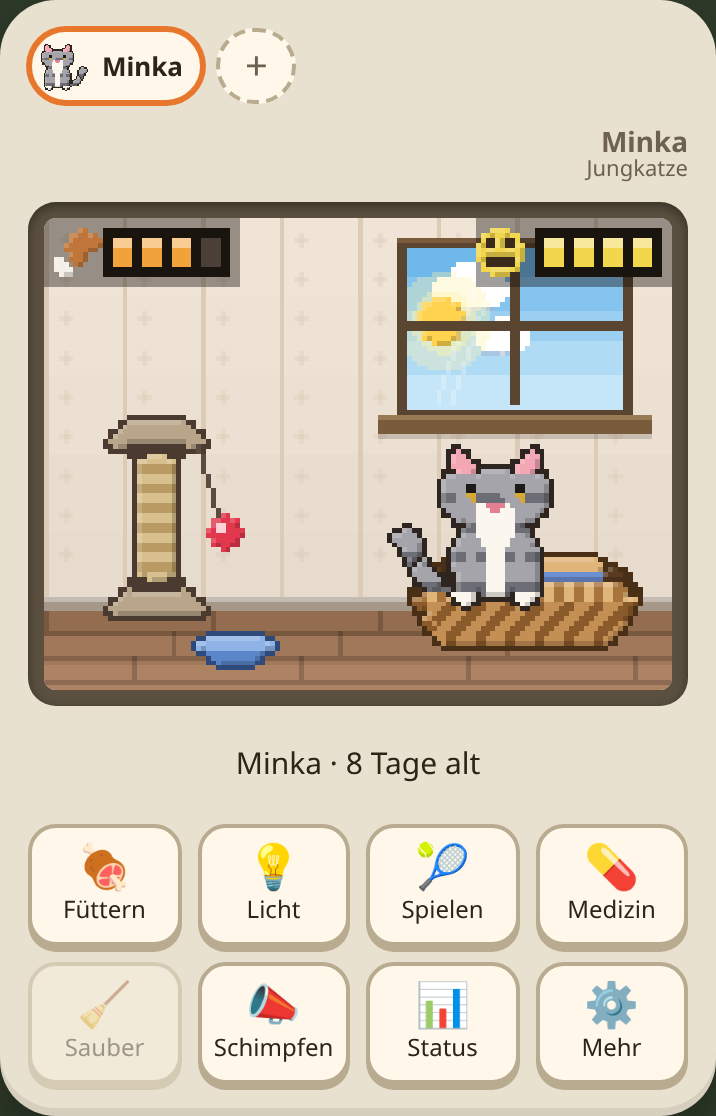
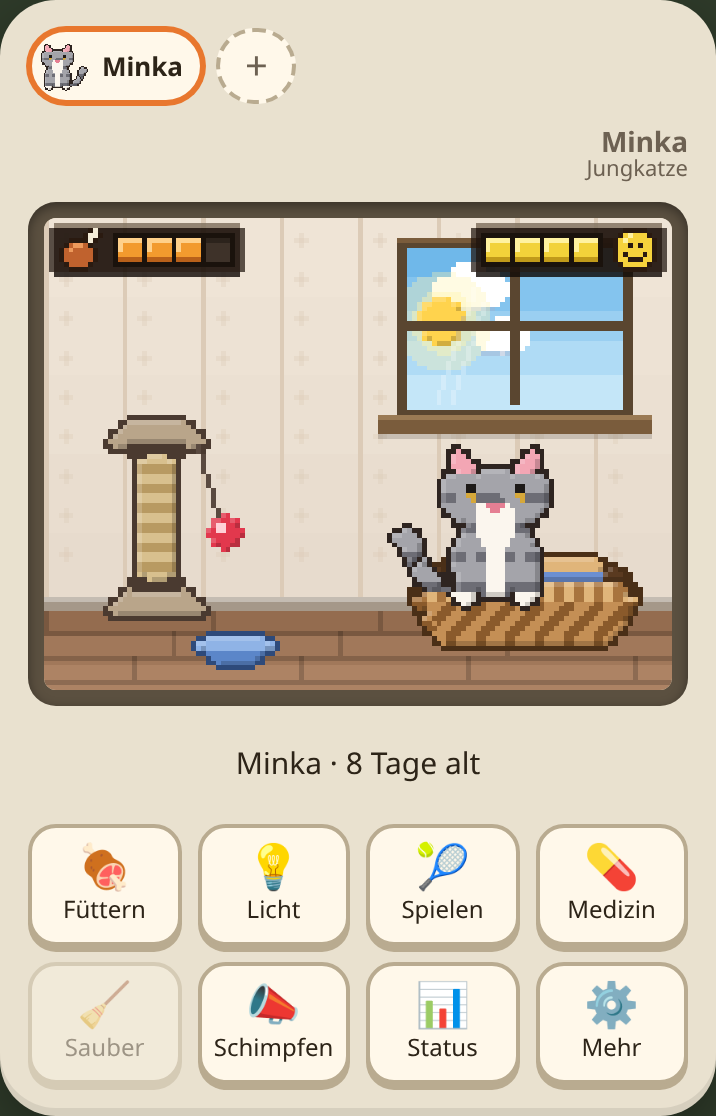
Schöneres HUD (Rahmen, Fleisch-Symbol, Stimmungs-Smiley, glänzende Segmente), kleinerer Fuchsbau-Eingang

Changed region(s): [[0.6453, 0.1828, 0.9525, 0.2742], [0.0615, 0.1828, 0.3687, 0.2742]]

diff --git a/src/render/scene.ts b/src/render/scene.ts
@@ -2,7 +2,7 @@ import { MIN, RULES } from '../engine/config';
 import { activePet, hearts, type GameState, type Pet } from '../engine/state';
 import { species } from '../species';
 import type { SpeciesDef } from '../species/types';
-import { ColorMap, ICONS, RES, drawMap, eggColors, eggMap, hiResCanvas, petSprite } from './pixels';
+import { ColorMap, ICONS, RES, drawMap, drawPixels, eggColors, eggMap, hiResCanvas, petSprite } from './pixels';
 import { Critters } from './critters';
 import { bands, cloud, glow, shadeHex } from './fx';
 import { PLATE_COLORS, SceneKind, drawNestBack, drawNestFront, drawOutdoor, skyState } from './outdoor';
@@ -105,10 +105,86 @@ const LEAVES: [number, number, number, number][] = [
   [42, 45, 0, 1], [49, 43, 1, 0], [56, 46, 2, 1], [61, 42, 3, 2], [24, 43, 4, 0], [37, 46, 1, 2], [16, 46, 3, 2],
 ];
 
-// HUD-Symbole
-const HUD_ICON_COLORS: ColorMap = { b: '#c0763a', w: '#f4f0e8', y: '#f2d64b', o: '#3a2a1a' };
-const HUD_FOOD = ['..bb.', '.bbbb', '.bbb.', 'w.b..', 'ww...'];
-const HUD_SMILE = ['.yyy.', 'yoyoy', 'yyyyy', 'yoooy', '.yyy.'];
+// HUD-Symbole in voller Rasterauflösung (1 Zeichen = 1 Bildpixel)
+const HUD_COLORS: ColorMap = {
+  o: '#2a1a10',
+  b: '#c0622e',
+  h: '#ee9a5c',
+  w: '#f4ecd8',
+  y: '#f6d23c',
+  l: '#fff2a0',
+  k: '#2a1a10',
+  s: '#f0f0f0',
+  r: '#e2384d',
+};
+const HUD_MEAT = [
+  '......ow.',
+  '.....owwo',
+  '..oooowo.',
+  '.obhhbo..',
+  'obhbbbbo.',
+  'obbbbbbo.',
+  'obbbbbbo.',
+  '.obbbbo..',
+  '..oooo...',
+];
+const HUD_HAPPY = [
+  '..ooooo..',
+  '.oylyyyo.',
+  'oylyyyyyo',
+  'oyyoyoyyo',
+  'oyyyyyyyo',
+  'oykyyykyo',
+  'oyykkkyyo',
+  '.oyyyyyo.',
+  '..ooooo..',
+];
+const HUD_OK = [
+  '..ooooo..',
+  '.oylyyyo.',
+  'oylyyyyyo',
+  'oyyoyoyyo',
+  'oyyyyyyyo',
+  'oyyyyyyyo',
+  'oyykkkyyo',
+  '.oyyyyyo.',
+  '..ooooo..',
+];
+const HUD_SAD = [
+  '..ooooo..',
+  '.oylyyyo.',
+  'oylyyyyyo',
+  'oyyoyoyyo',
+  'oyyyyyyyo',
+  'oyykkkyyo',
+  'oykyyykyo',
+  '.oyyyyyo.',
+  '..ooooo..',
+];
+const HUD_SKULL = [
+  '..ooooo..',
+  '.ossssso.',
+  'ossssssso',
+  'osoosooso',
+  'osoosooso',
+  'osssossso',
+  '.ossssso.',
+  '..ososo..',
+  '..ooooo..',
+]
+const HUD_BANG = ['ooo', 'oro', 'oro', 'oro', 'oro', 'ooo', '...', 'ooo', 'oro', 'ooo'];
+
+/** HUD-Rahmen: dunkel, helle Kante, abgeschrägte Ecken (Maße in Bildpixeln) */
+function hudPanel(ctx: CanvasRenderingContext2D, x: number, y: number, w: number, h: number) {
+  const PX = 1 / RES;
+  ctx.fillStyle = 'rgba(30,20,12,0.72)';
+  ctx.fillRect(x + PX, y, (w - 2) * PX, h * PX);
+  ctx.fillRect(x, y + PX, w * PX, (h - 2) * PX);
+  ctx.fillStyle = 'rgba(255,236,200,0.35)';
+  ctx.fillRect(x + PX, y, (w - 2) * PX, PX);
+  ctx.fillStyle = 'rgba(0,0,0,0.35)';
+  ctx.fillRect(x + PX, y + (h - 1) * PX, (w - 2) * PX, PX);
+}
 
 type FxKind = 'food' | 'candy' | 'pill' | 'heart' | 'angry' | 'sparkle';
 
@@ -261,45 +337,60 @@ export class Scene {
   /** HUD oben im Bild wie in einem Videospiel: Sättigung links, Laune rechts, Warnsymbole in der Mitte */
   private drawHud(p: Pet, t: number) {
     const ctx = this.ctx;
-    const BAR_W = 13;
+    const PX = 1 / RES;
     if (p.stage !== 'egg') {
-      ctx.fillStyle = 'rgba(20,16,12,0.4)';
-      ctx.fillRect(0, 0, 20, 7);
-      ctx.fillRect(SCREEN_W - 20, 0, 20, 7);
-      drawMap(ctx, HUD_FOOD, HUD_ICON_COLORS, 1, 1);
-      this.drawBar(6, 1, hearts(p.hunger), '#f2a23a', t);
-      this.drawBar(SCREEN_W - 1 - BAR_W, 1, hearts(p.happy), '#f2d64b', t);
-      drawMap(ctx, HUD_SMILE, HUD_ICON_COLORS, SCREEN_W - 2 - BAR_W - 5, 1);
+      const food = hearts(p.hunger);
+      const mood = hearts(p.happy);
+      // links: Sättigung
+      hudPanel(ctx, 0.5, 0.5, 40, 11);
+      drawPixels(ctx, HUD_MEAT, HUD_COLORS, 0.5 + 2 * PX, 0.5 + PX);
+      this.drawBar(0.5 + 13 * PX, 0.5 + 2 * PX, food, ['#ffd08a', '#f29a2e', '#b8601a'], t);
+      // rechts: Laune (Gesicht passend zur Stimmung)
+      const rx = SCREEN_W - 0.5 - 40 * PX;
+      hudPanel(ctx, rx, 0.5, 40, 11);
+      this.drawBar(rx + 2 * PX, 0.5 + 2 * PX, mood, ['#fff2a0', '#f2d23a', '#c09a1a'], t);
+      drawPixels(ctx, mood >= 3 ? HUD_HAPPY : mood === 2 ? HUD_OK : HUD_SAD, HUD_COLORS, rx + 29 * PX, 0.5 + PX);
     }
     // Mitte: krank / ruft
     const calling = Object.keys(p.calls).length > 0;
-    const icons: { map: string[]; colors: ColorMap }[] = [];
-    if (p.sick) icons.push(ICONS.skull);
-    if (calling && Math.floor(t / 500) % 2 === 0) icons.push(ICONS.bang);
-    const width = (p.sick ? 5 : 0) + (calling ? 2 : 0) + (p.sick && calling ? 2 : 0);
-    let x = Math.round(SCREEN_W / 2 - width / 2);
-    if (width) {
-      ctx.fillStyle = 'rgba(20,16,12,0.4)';
-      ctx.fillRect(x - 2, 0, width + 4, 7);
-    }
-    for (const icon of icons) {
-      drawMap(ctx, icon.map, icon.colors, x, 1);
-      x += icon.map[0].length + 2;
+    const blinkOn = Math.floor(t / 500) % 2 === 0;
+    if (p.sick || calling) {
+      const w = (p.sick ? 9 : 0) + (calling ? 3 : 0) + (p.sick && calling ? 2 : 0) + 4;
+      const x = Math.round((SCREEN_W / 2 - (w * PX) / 2) * RES) / RES;
+      hudPanel(ctx, x, 0.5, w, 12);
+      let ix = x + 2 * PX;
+      if (p.sick) {
+        drawPixels(ctx, HUD_SKULL, HUD_COLORS, ix, 0.5 + 1.5 * PX + PX / 2);
+        ix += 11 * PX;
+      }
+      if (calling && blinkOn) drawPixels(ctx, HUD_BANG, HUD_COLORS, ix, 0.5 + PX);
     }
   }
 
-  /** schmale Leiste mit 4 Segmenten; bei 0–1 Segment rot blinkend */
-  private drawBar(x: number, y: number, filled: number, color: string, t: number) {
+  /** Leiste mit 4 Segmenten (je 5×5 Bildpixel), Glanz oben, Schatten unten; rot blinkend bei 0–1 */
+  private drawBar(x: number, y: number, filled: number, shades: [string, string, string], t: number) {
     const ctx = this.ctx;
+    const PX = 1 / RES;
     const low = filled <= 1 && Math.floor(t / 400) % 2 === 0;
-    ctx.fillStyle = '#1a140e';
-    ctx.fillRect(x, y, 13, 5);
+    const [hi, mid, lo] = low ? ['#ff9aa6', '#e2384d', '#9a1c2c'] : shades;
+    ctx.fillStyle = '#1a120c';
+    ctx.fillRect(x, y, 25 * PX, 7 * PX);
     for (let i = 0; i < 4; i++) {
-      ctx.fillStyle = i < filled ? (low ? '#e2384d' : color) : '#4a4038';
-      ctx.fillRect(x + 1 + i * 3, y + 1, 2, 3);
+      const sx = x + PX + i * 6 * PX;
+      const sy = y + PX;
       if (i < filled) {
-        ctx.fillStyle = 'rgba(255,255,255,0.45)';
-        ctx.fillRect(x + 1 + i * 3, y + 1, 2, 1);
+        ctx.fillStyle = mid;
+        ctx.fillRect(sx, sy, 5 * PX, 5 * PX);
+        ctx.fillStyle = hi;
+        ctx.fillRect(sx, sy, 5 * PX, PX);
+        ctx.fillRect(sx, sy, PX, 3 * PX);
+        ctx.fillStyle = lo;
+        ctx.fillRect(sx, sy + 4 * PX, 5 * PX, PX);
+      } else {
+        ctx.fillStyle = '#3e3229';
+        ctx.fillRect(sx, sy, 5 * PX, 5 * PX);
+        ctx.fillStyle = '#2c231c';
+        ctx.fillRect(sx, sy, 5 * PX, PX);
       }
     }
   }

diff --git a/src/render/pixels.ts b/src/render/pixels.ts
@@ -120,6 +120,18 @@ export function drawMap(
   ctx.drawImage(bmp, snap(x), snap(y), map[0].length, map.length);
 }
 
+/** Zeichnet eine Pixel-Grafik in voller Rasterauflösung (1 Zeichen = 1 Bildpixel) */
+export function drawPixels(ctx: CanvasRenderingContext2D, map: string[], colors: ColorMap, x: number, y: number) {
+  const p = 1 / RES;
+  for (let r = 0; r < map.length; r++)
+    for (let c = 0; c < map[r].length; c++) {
+      const col = colors[map[r][c]];
+      if (!col) continue;
+      ctx.fillStyle = col;
+      ctx.fillRect(x + c * p, y + r * p, p, p);
+    }
+}
+
 /** Canvas in hoher Auflösung, Koordinaten in Spiel-Pixeln */
 export function hiResCanvas(w: number, h: number, cls = ''): HTMLCanvasElement {
   const c = document.createElement('canvas');

diff --git a/src/render/outdoor.ts b/src/render/outdoor.ts
@@ -168,8 +168,8 @@ function inEllipse(x: number, y: number, rx: number, ry: number, cy = NEST_BASE)
 const trunkHalf = (y: number) => (y < 37 ? 7 : 7 + Math.round((y - 36) * 1.5));
 const TRUNK_TOP = 0; // Stamm reicht über den oberen Bildrand hinaus, Krone nicht sichtbar
 // Höhle: Torbogen mit rundem Dach
-const HOLE_HALF = 5;
-const HOLE_TOP = 29;
+const HOLE_HALF = 4;
+const HOLE_TOP = 31;
 const inHole = (x: number, y: number, grow = 0) => {
   const r = HOLE_HALF + grow;
   const archY = HOLE_TOP - grow + r; // Mittelpunkt des runden Dachs

diff --git a/SPEC.md b/SPEC.md
@@ -37,7 +37,12 @@ Abschnitte mit **(ergänzt)** stammen nicht aus der ursprünglichen Anforderung,
 
 Den Status kann man jederzeit über einen eigenen Statusbildschirm ansehen.
 
-**HUD:** Sättigung und Laune stehen wie in einem Videospiel **oben im Spielbild** als schmale Leisten mit je **4 Segmenten**: **Sättigung links oben** (Keulen-Symbol), **Laune rechts oben** (Smiley). Ist nur noch ein Segment voll, wird die Leiste rot und blinkt. Die Warnsymbole (Totenkopf bei Krankheit, Ausrufezeichen beim Rufen) stehen oben in der Mitte. Alle HUD-Elemente haben einen kleinen dunklen Hintergrund. Das HUD bleibt auch nachts und bei Licht aus hell.
+**HUD:** Sättigung und Laune stehen wie in einem Videospiel **oben im Spielbild**. Alles ist im feinen Pixelraster gezeichnet und sitzt in dunklen Pixel-Rahmen mit abgeschrägten Ecken und heller Oberkante.
+- **Links oben: Sättigung.** Ein Fleisch-Knochen-Symbol und eine Leiste mit **4 Segmenten** (orange).
+- **Rechts oben: Laune.** Eine Leiste mit 4 Segmenten (gelb) und ein **Smiley, das zur Stimmung passt**: lachend ab 3 Segmenten, neutral bei 2, traurig bei 0–1.
+- Die Segmente haben Glanz oben und Schatten unten. Ist nur noch ein Segment voll, wird die Leiste **rot und blinkt**.
+- **Oben in der Mitte** stehen die Warnsymbole: ein Totenkopf bei Krankheit und ein blinkendes Ausrufezeichen beim Rufen.
+- Das HUD bleibt auch nachts und bei Licht aus hell.
 
 ## 4. Lebenszyklus
 
@@ -218,7 +223,7 @@ Gesperrte Aktionen, zum Beispiel Füttern während des Schlafs, sind ausgegraut.
 
 **Umgebung je Tierart:**
 - **Katze:** wohnt drinnen im Zimmer (siehe unten).
-- **Fuchs:** lebt draußen **am Waldrand**: Himmel mit Sonne bzw. Mond und Sternen, Hügel, Tannen, Wiese mit Gras. Er schläft in einer **Baumhöhle**: Der Baum ist so hoch, dass man **nur den Stamm** sieht und keine Blätter. Der Stamm ist schlank, mit Rindenstruktur, Licht und Schatten, einem Aststummel, einem Astloch und Wurzeln. Unten im Stamm ist eine kleine bogenförmige Höhle mit Laubpolster. Gefüttert wird auf einem flachen Stein.
+- **Fuchs:** lebt draußen **am Waldrand**: Himmel mit Sonne bzw. Mond und Sternen, Hügel, Tannen, Wiese mit Gras. Er schläft in einer **Baumhöhle**: Der Baum ist so hoch, dass man **nur den Stamm** sieht und keine Blätter. Der Stamm ist schlank, mit Rindenstruktur, Licht und Schatten, einem Aststummel, einem Astloch und Wurzeln. Unten im Stamm ist ein kleiner bogenförmiger Eingang zum Fuchsbau mit Laubpolster. Gefüttert wird auf einem flachen Stein.
 - **Igel:** lebt draußen **im Garten**: Hecke, Holzzaun, Busch mit Beeren, Blumen, Rasen mit Herbstlaub. Er schläft in einem **Laubhaufen**. Gefüttert wird aus einem Tonschälchen.
 - Schlafplätze sind innen hell genug und verdecken nur den unteren Rand, damit man das schlafende Tier **gut erkennt**. Licht aus dunkelt das Bild nur so weit ab, dass das Tier sichtbar bleibt. Nachts ist draußen der Hintergrund zusätzlich dunkler.
 
